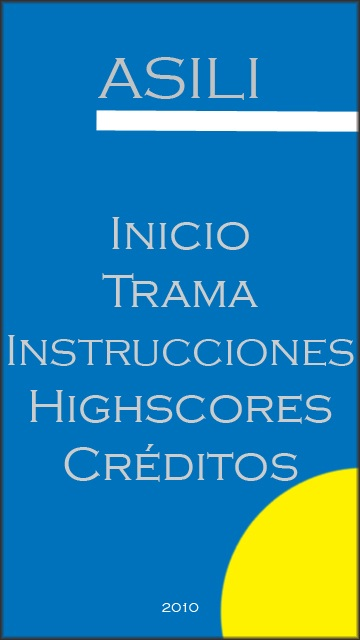
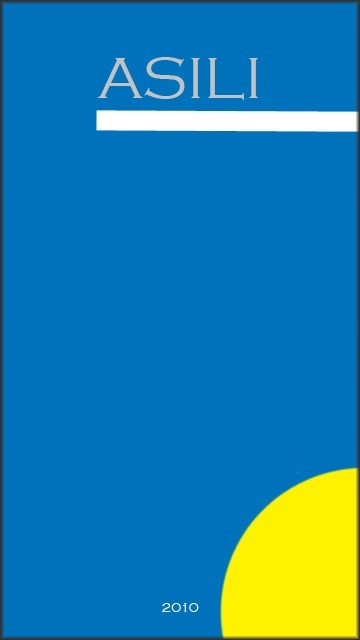
---------------------->>>ATENCION!!!!!!!!!!!!!!!!!
en el appAsili se comentó el asili para probar el menu principal, para restaurarlo hay que quitar las diagonales.

diff --git a/Asili/src/MenuPrincipal.java b/Asili/src/MenuPrincipal.java
@@ -15,6 +15,9 @@ public class MenuPrincipal extends GameCanvas{
     private int ANCHO,ALTO;
     private Graphics g;
     private Fondo fondo;
+    private SpriteInicio spriteInicio;
+    
+
     
     public MenuPrincipal(AppAsili midlet) {
         super(true);
@@ -27,8 +30,9 @@ public class MenuPrincipal extends GameCanvas{
        
 
         try {
-
+            spriteInicio = new SpriteInicio(0, 3);
             fondo = new Fondo("/imagenes/menuPrincipal.jpg", 0);
+
            
         } catch (IOException ex) {
             System.out.println("No se pueden cargar los fondos");
@@ -37,28 +41,12 @@ public class MenuPrincipal extends GameCanvas{
     
 
     }
-    //comprobación de cajas (Qué opción de selaccionó)
-    protected void pointerReleased(int x, int y) {
-
-        //inicio
-        if (y>378 && y<434){
-            
+    //comprobación de cajas (Qué opción de seleccionó)
+    protected void pointerPressed(int aX, int aY) {
+        System.out.println("x:"+aX+"y:"+aY );
+        
         }
-        //trama
-        else if(y >318  && y < 378){
-
-        }
-        else if(y > 261 && y <318)
-        {
-
-        }
-        else if(y > 204 && y < 261)
-        {
-
-        }
-        if (y>150 && y<204){
-
-        }
+              
+        
     }
 
-}

diff --git a/Asili/src/AppAsili.java b/Asili/src/AppAsili.java
@@ -15,7 +15,7 @@ public class AppAsili extends MIDlet {
     private Asili asili;
     private Alert splash;
     private Image imagen;
-
+    private MenuPrincipal menuPrincipal;
      
     public AppAsili() {
 
@@ -26,7 +26,8 @@ public class AppAsili extends MIDlet {
             ex.printStackTrace();
         }
         
-        asili = new Asili(this);
+        //asili = new Asili(this);
+        menuPrincipal= new MenuPrincipal (this);
         splash= new Alert("ITESM CEM","ITESM CEM",imagen,null);
         splash.setTimeout(5000);
         
@@ -40,7 +41,7 @@ public class AppAsili extends MIDlet {
          }
          catch (InterruptedException ex) {
              ex.printStackTrace();          }
-        Display.getDisplay(this).setCurrent(asili);
+        Display.getDisplay(this).setCurrent(menuPrincipal);
 
         
 

diff --git a/Asili/src/SpriteInicio.java b/Asili/src/SpriteInicio.java
@@ -1,0 +1,25 @@
+
+import java.io.IOException;
+import javax.microedition.lcdui.Graphics;
+import javax.microedition.lcdui.Image;
+import javax.microedition.lcdui.game.Sprite;
+
+
+public class SpriteInicio extends Sprite{
+
+
+    public SpriteInicio(int x, int y) throws IOException {
+        super (Image.createImage("/imagenes/inicioSprite.png"),360, 50);
+        setPosition(0, 200);
+        super.setFrame(0);
+        super.setFrameSequence(new int [] {0, 1});
+        
+    }
+
+    public void dibujar(Graphics g) {
+
+        super.paint(g);
+    }
+
+   
+}
